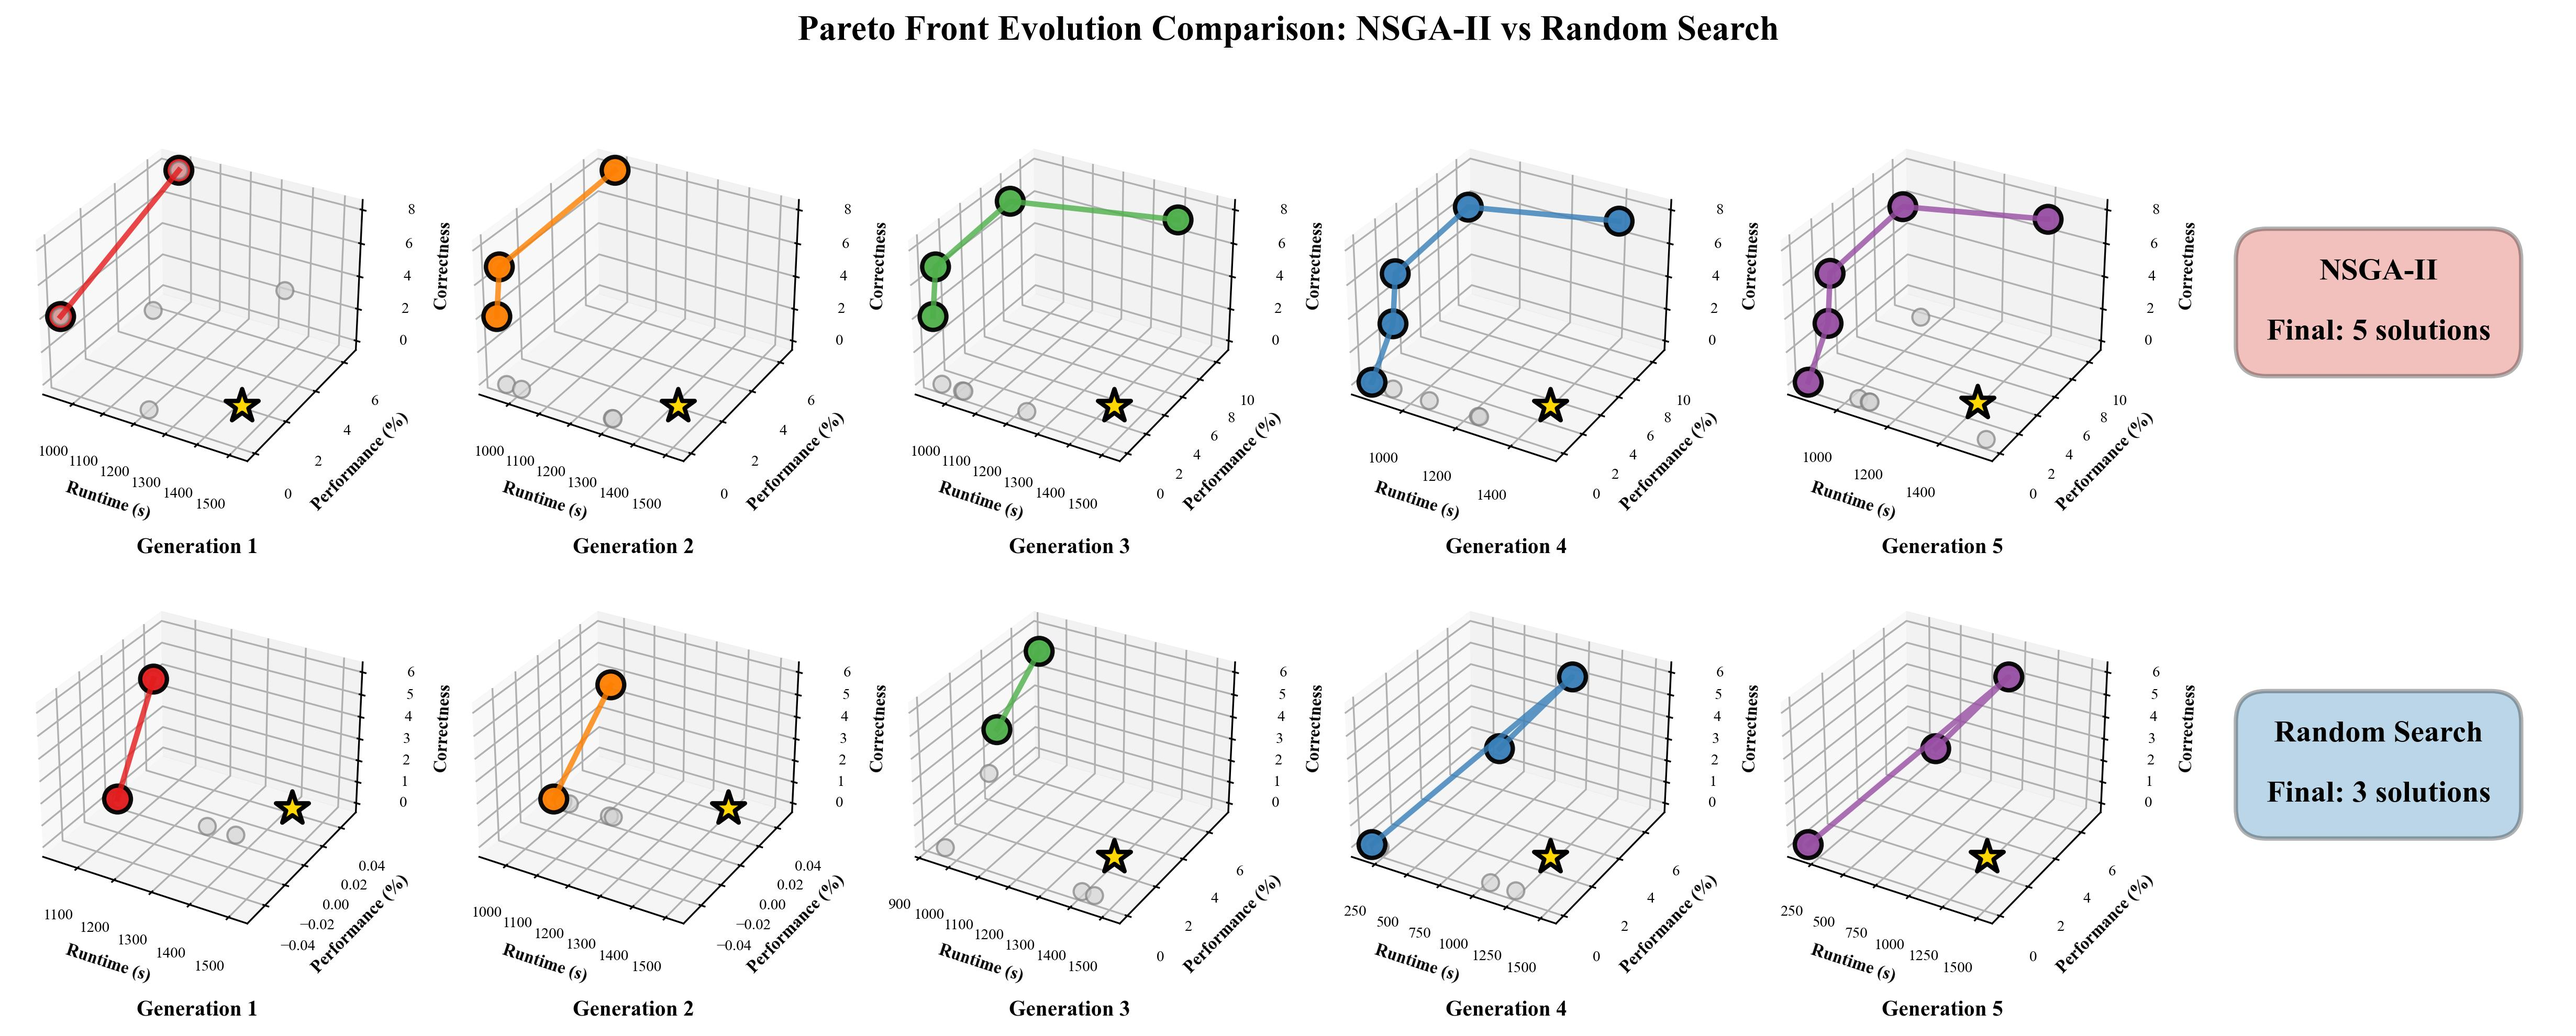
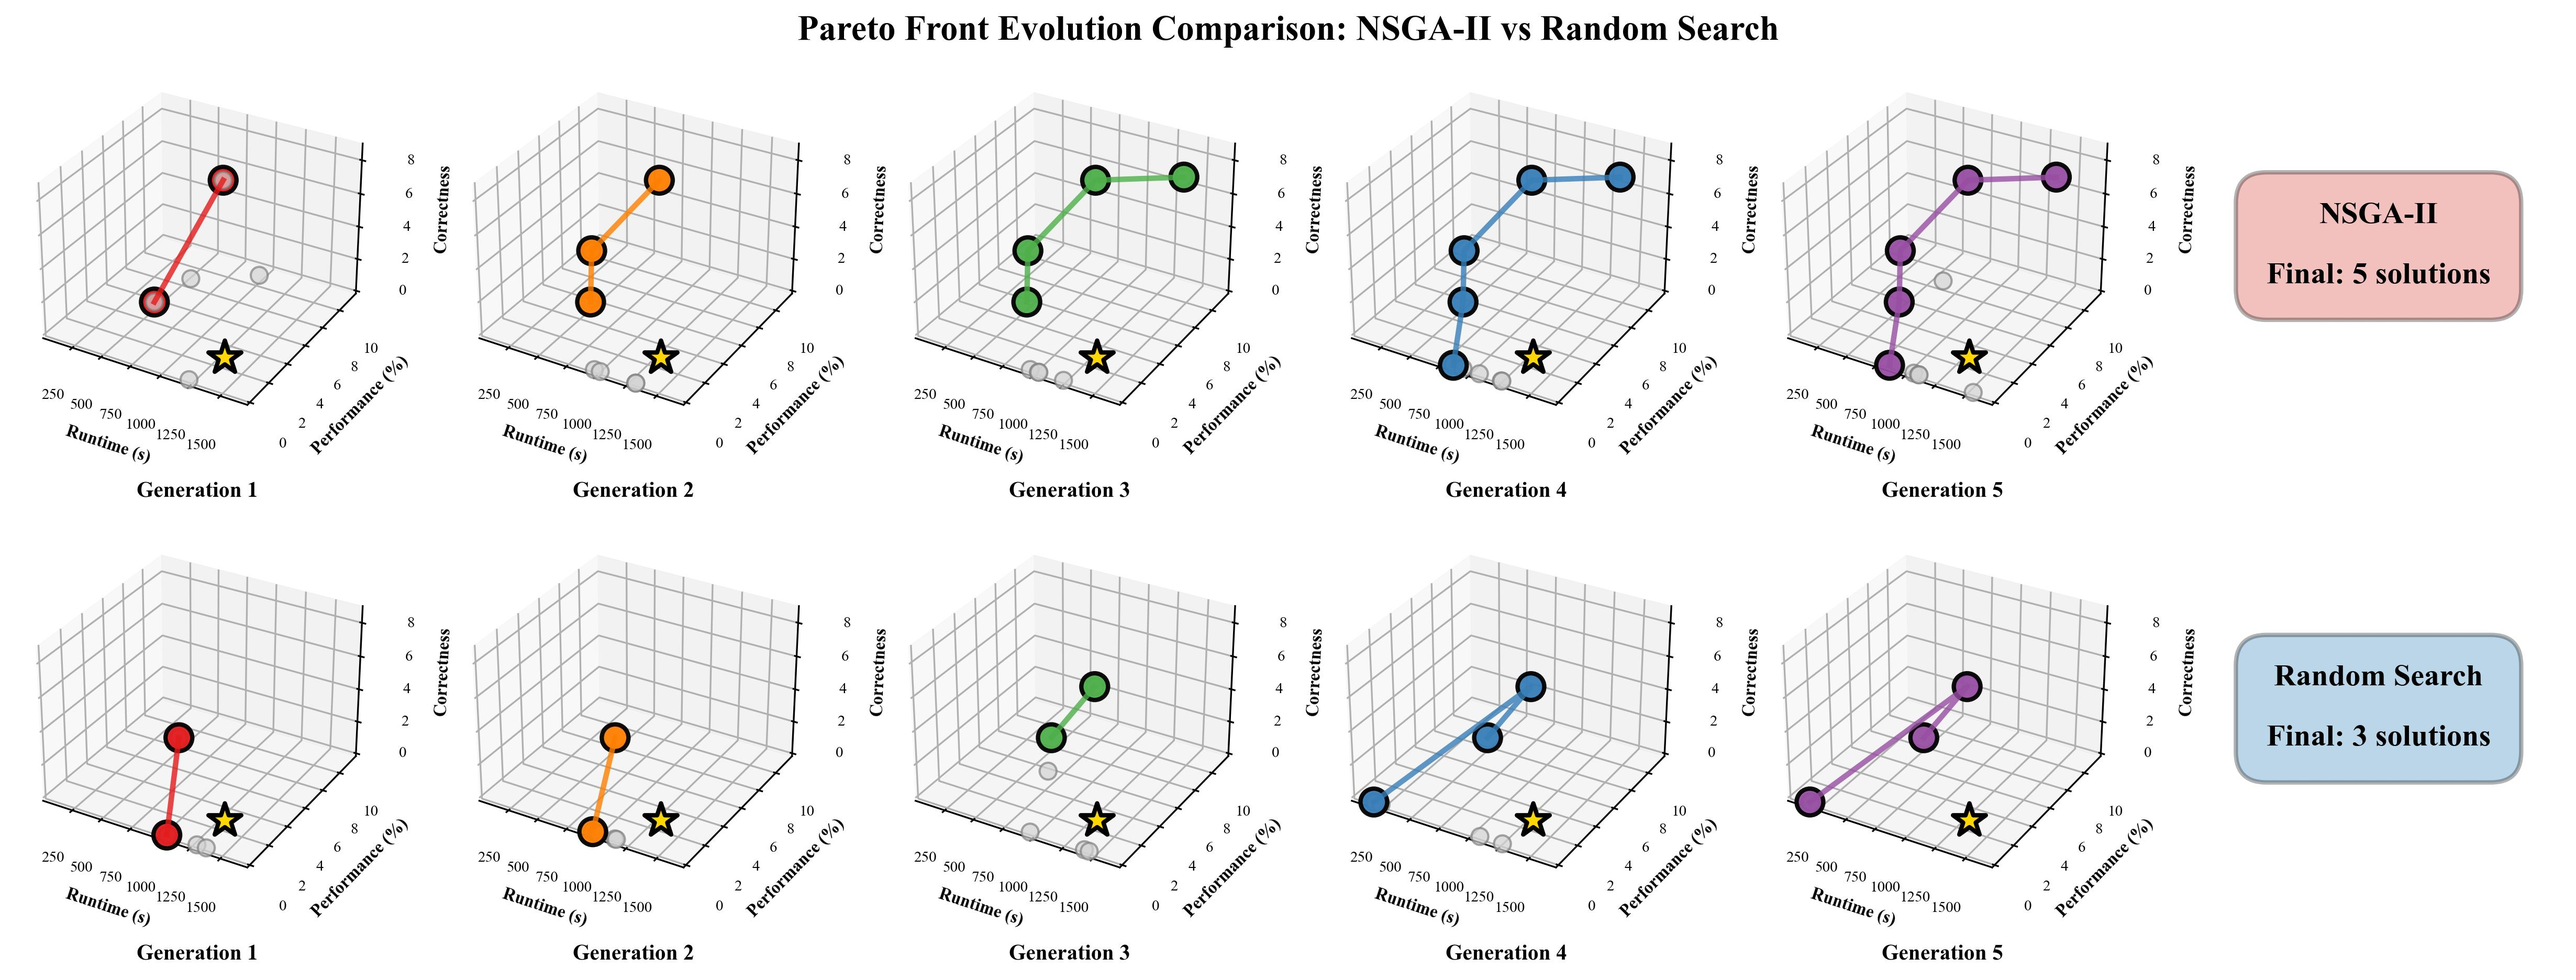
Fix axis limits in comparison figure for better visualization

diff --git a/ga/results/compare_nsga_vs_random.py b/ga/results/compare_nsga_vs_random.py
@@ -161,6 +161,21 @@ default_runtime, default_perf, default_corr = 1513.3, 0.0, 2.0
 # Colors for generations: red, orange, green, blue, purple
 gen_colors = ['#e41a1c', '#ff7f00', '#4daf4a', '#377eb8', '#984ea3']
 
+# Calculate fixed axis limits across both methods for consistent visualization
+combined_df = pd.concat([df_nsga, df_random])
+runtime_min, runtime_max = combined_df['runtime'].min(), combined_df['runtime'].max()
+perf_min, perf_max = combined_df['performance'].min(), combined_df['performance'].max()
+corr_min, corr_max = combined_df['correctness'].min(), combined_df['correctness'].max()
+
+# Add padding for better visualization
+runtime_padding = (runtime_max - runtime_min) * 0.1
+perf_padding = (perf_max - perf_min) * 0.1
+corr_padding = (corr_max - corr_min) * 0.1
+
+runtime_lim = (max(0, runtime_min - runtime_padding), runtime_max + runtime_padding)
+perf_lim = (max(0, perf_min - perf_padding), perf_max + perf_padding)
+corr_lim = (max(0, corr_min - corr_padding), corr_max + corr_padding)
+
 methods = [
     ("NSGA-II", df_nsga, nsga_fronts, '#d73027', 1),
     ("Random Search", df_random, random_fronts, '#1f78b4', 2)
@@ -210,6 +225,11 @@ for method_name, df, pareto_fronts_dict, main_color, row in methods:
                   transform=ax.transAxes, fontweight='bold', fontsize=10,
                   ha='center', va='top')
         
+        # Set fixed axis limits for consistent visualization across all subplots
+        ax.set_xlim(runtime_lim)
+        ax.set_ylim(perf_lim)
+        ax.set_zlim(corr_lim)
+        
         # Set viewing angle
         ax.view_init(elev=30, azim=-60)
         
@@ -225,7 +245,7 @@ for method_name, df, pareto_fronts_dict, main_color, row in methods:
                            alpha=0.3, edgecolor='black', linewidth=2))
 
 plt.suptitle('Pareto Front Evolution Comparison: NSGA-II vs Random Search', 
-             fontweight='bold', fontsize=16, y=0.55)
+             fontweight='bold', fontsize=16, y=0.52)
 plt.subplots_adjust(wspace=0.2, hspace=0.2, left=0.05, right=0.95, top=0.5, bottom=0.05)
 plt.savefig(figures_dir / 'comparison_pareto_fronts.jpg', dpi=300, bbox_inches='tight')
 plt.close()
